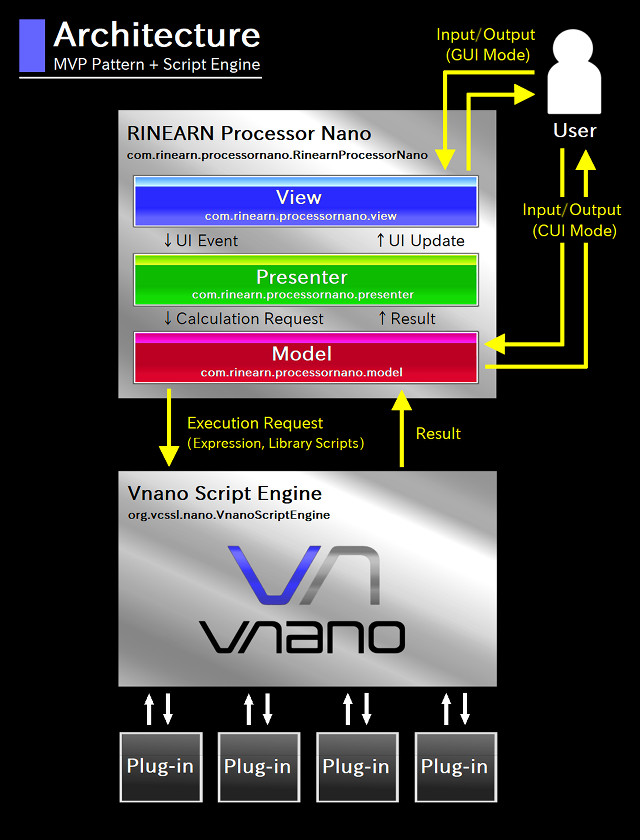
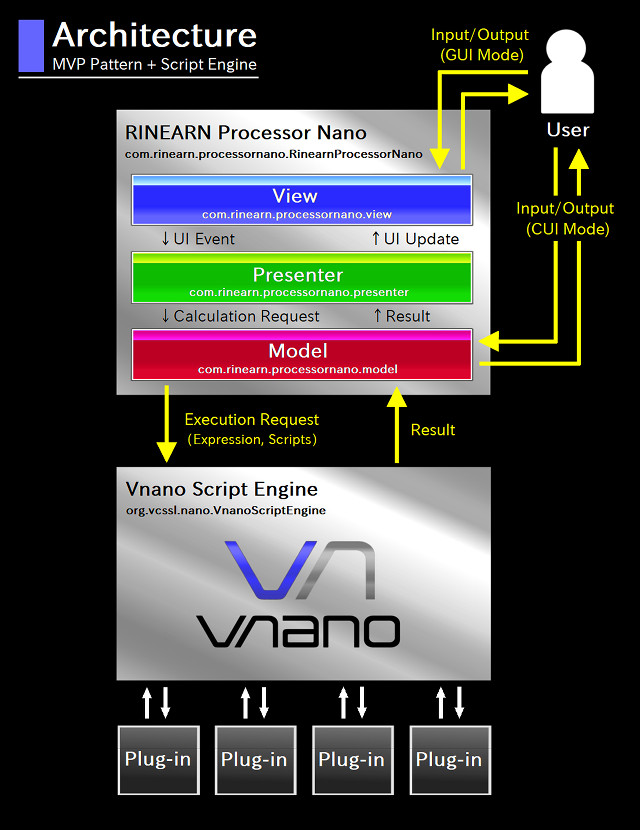
Update: modify text in architecture.jpg: "Library Scripts" to "Scripts"

Changed region(s): [[0.0312, 0.0301, 0.9688, 0.8133], [0.1562, 0.5422, 0.7812, 0.9639]]

diff --git a/README.md b/README.md
@@ -808,8 +808,8 @@ The following is a block diagram to grasp relationship between components we men
 
 下図は、各コンポーネントの関係を把握するためのブロック図です：
 
-<div style="background-color:black; width: 640px; height: 840px; text-align:center; background-image: url('./architecture.jpg'); background-repeat: no-repeat; background-size: contain;">
-	<img src="https://github.com/RINEARN/rinpn/blob/master/architecture.jpg" alt="" width="700" />
+<div style="background-color:black; width: 640px; height: 830px; text-align:center; background-image: url('./architecture.jpg'); background-repeat: no-repeat; background-size: contain;">
+	<img src="https://github.com/RINEARN/rinpn/blob/master/architecture.jpg" alt="" width="640" />
 </div>
 
 As in the above diagram, 
